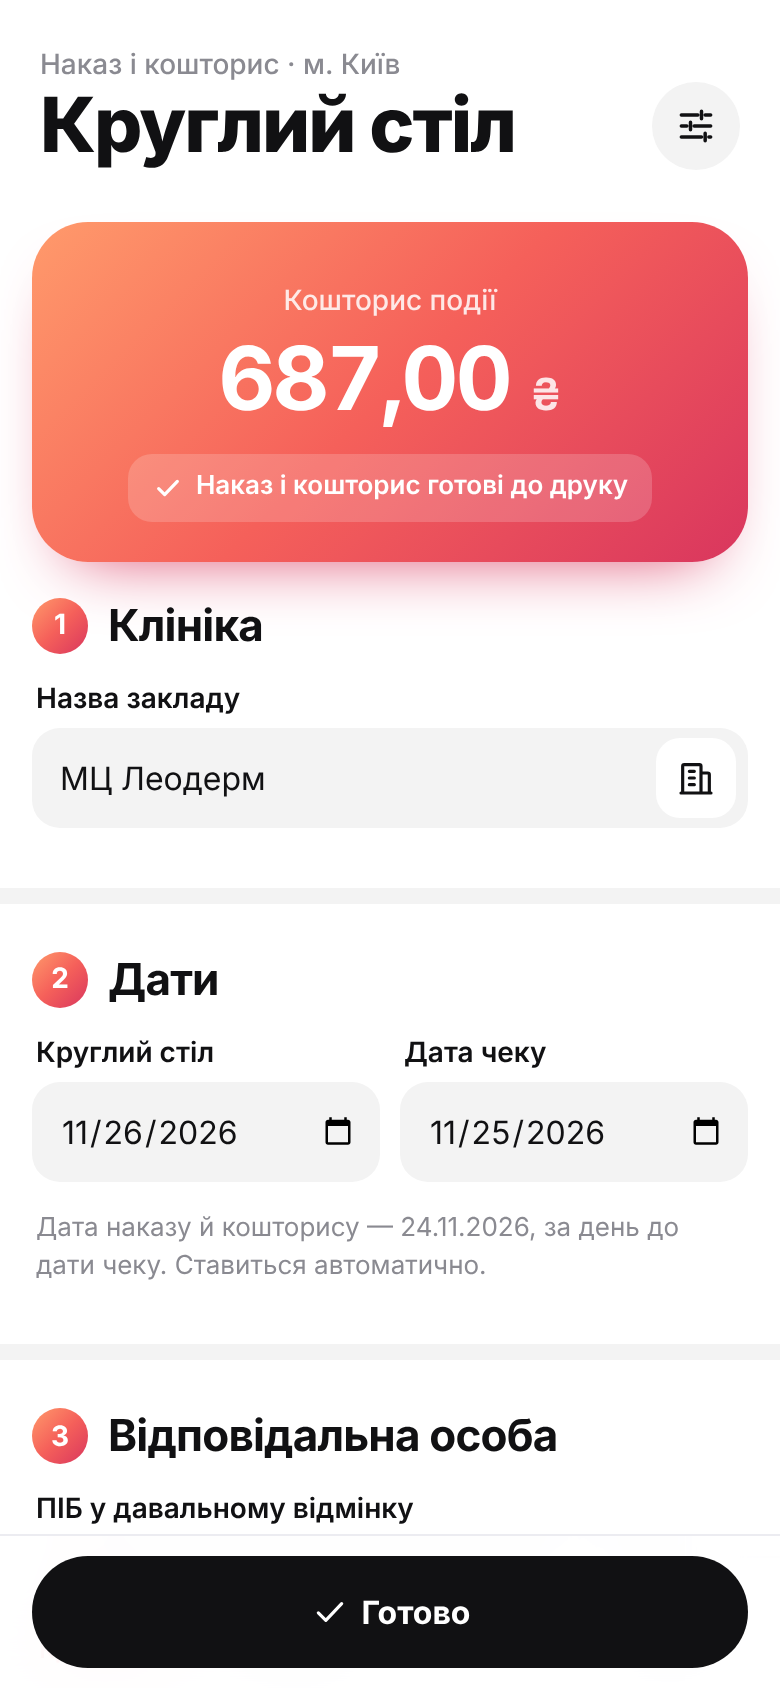
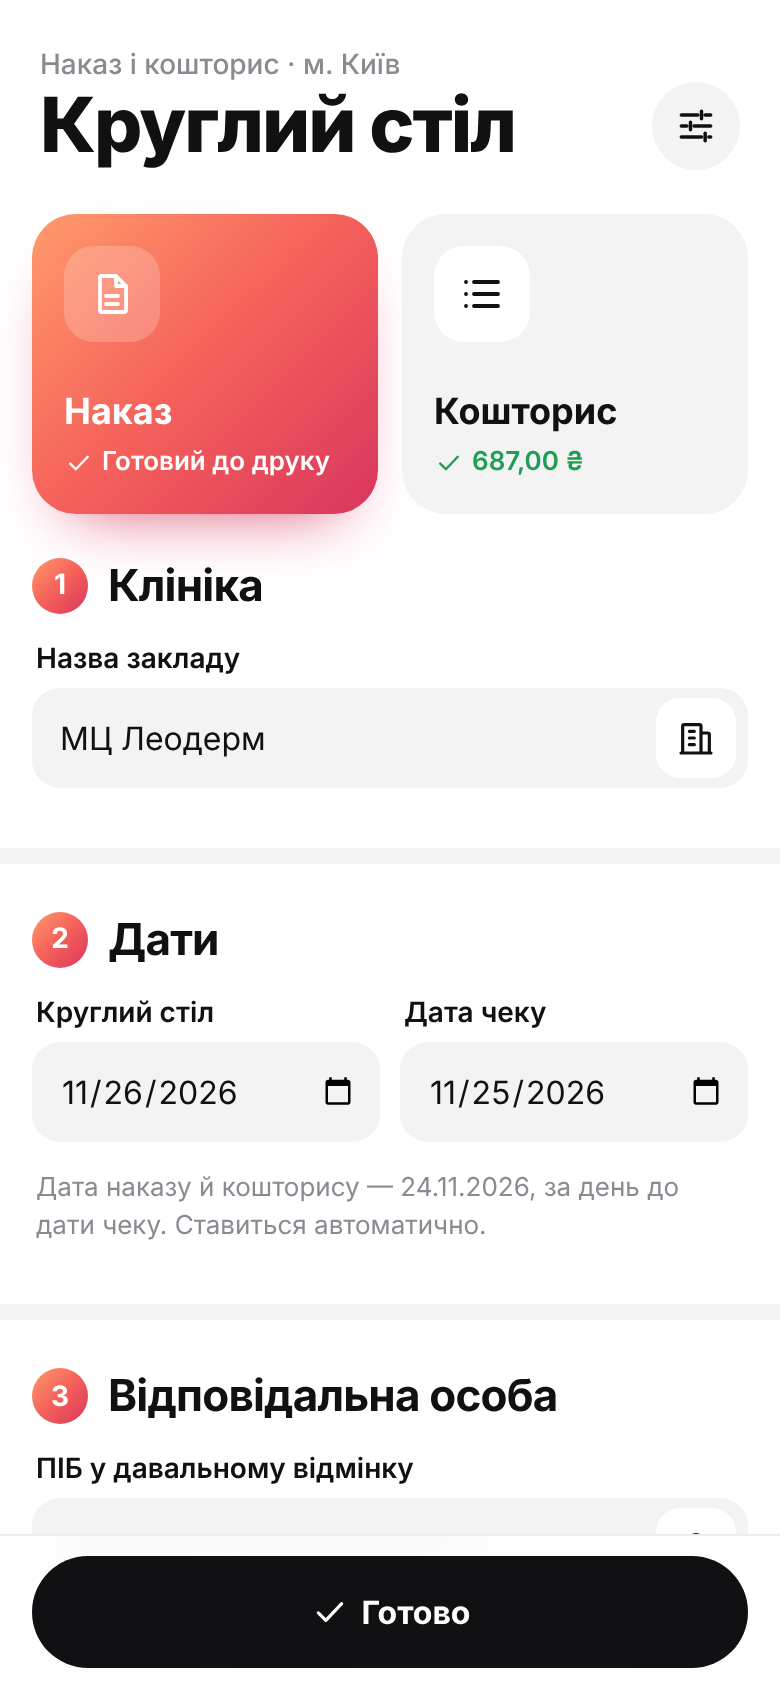
Round table: order and budget document cards instead of amount hero
Claude-Session: https://claude.ai/code/session_01MK9Aw3Yig429nqqad2jXvH

diff --git a/dist/app.js b/dist/app.js
@@ -40,7 +40,7 @@ const monthName=s=>{if(!s)return '';const d=new Date(s.slice(0,7)+'-15T12:00:00'
 /* ---------- Круглий стіл ---------- */
 function eventView(){const e=state.event;e.city=CITY;const step=(n,t)=>`<span class="step-n">${n}</span>${t}`;return {
  body:`<header class="large-title"><div><small>Наказ і кошторис · м. ${CITY}</small><h1>Круглий стіл</h1></div><button class="round" data-action="event-settings" aria-label="Налаштування події">${icon('sliders')}</button></header>
- <section class="hero"><span class="hero-label">Кошторис події</span><div class="hero-amount" id="budget-total"></div><div class="hero-status" id="preview-status"></div></section>
+ <section class="doc-pair"><button class="doc-card hero-doc" data-doc="order"><span class="doc-ic">${icon('doc')}</span><b>Наказ</b><small id="order-state"></small></button><button class="doc-card" data-doc="budget"><span class="doc-ic">${icon('list')}</span><b>Кошторис</b><small id="budget-state"></small></button></section>
  ${group(step(1,'Клініка'),`${pickField('Назва закладу','event.venue',e.venue,'clinics','event','placeholder="Виберіть або введіть клініку" maxlength="180"')}`)}
  ${group(step(2,'Дати'),`<div class="field-grid">${field('Круглий стіл','event.date',e.date,'date','required')}${field('Дата чеку','event.receiptDate',e.receiptDate||'','date','required')}</div><p class="hint" id="order-date"></p>`)}
  ${group(step(3,'Відповідальна особа'),`${pickField('ПІБ у давальному відмінку','event.person',e.person,'representatives','event','placeholder="Кузьмінській Уляні Іванівні" maxlength="180"')}`)}
@@ -191,7 +191,7 @@ function go(next){if(next===view)return render();const pushed=!!parentOf[next];v
 function back(){if(history.state?.pushed)history.back();else{view=parentOf[view]||'event';history.replaceState({view},'');render()}}
 window.addEventListener('popstate',e=>{if($('#preview-dialog').open)$('#preview-dialog').close();view=e.state?.view||'event';if(view==='travel')docType='travel';transition('back',render)});
 function updateDerived(){
- if(view==='event'){const total=$('#budget-total');if(total)total.innerHTML=money(costTotal(state.event.items))+' <small>₴</small>';state.event.items.forEach((r,i)=>{const el=document.querySelector(`[data-line-total="${i}"]`);if(el)el.textContent=money(r.qty*r.price)+' ₴'});const errs=eventErrors(true),st=$('#preview-status');if(st){st.className='hero-status '+(errs.length?'warn':'ok');st.innerHTML=errs.length?'Заповніть: '+esc(errs.join(', ')):icon('check')+'Наказ і кошторис готові до друку'}const od=$('#order-date'),o=eventDates(state.event).orderDate;if(od)od.textContent=o?`Дата наказу й кошторису — ${date(o)}, за день до дати чеку. Ставиться автоматично.`:'Дата наказу ставиться автоматично: за день до дати чеку.'}
+ if(view==='event'){const oe=eventErrors(false),be=eventErrors(true).filter(x=>!oe.includes(x)),os=$('#order-state'),bs=$('#budget-state'),mark=(el,errs,ok)=>{if(!el)return;el.closest('.doc-card').classList.toggle('ready',!errs.length);el.innerHTML=errs.length?'Бракує: '+esc(errs.join(', ')):icon('check')+ok};mark(os,oe,'Готовий до друку');mark(bs,oe.length?oe:be,money(costTotal(state.event.items))+' ₴');state.event.items.forEach((r,i)=>{const el=document.querySelector(`[data-line-total="${i}"]`);if(el)el.textContent=money(r.qty*r.price)+' ₴'});const errs=eventErrors(true),st=$('#preview-status');if(st){st.className='hero-status '+(errs.length?'warn':'ok');st.innerHTML=errs.length?'Заповніть: '+esc(errs.join(', ')):icon('check')+'Наказ і кошторис готові до друку'}const od=$('#order-date'),o=eventDates(state.event).orderDate;if(od)od.textContent=o?`Дата наказу й кошторису — ${date(o)}, за день до дати чеку. Ставиться автоматично.`:'Дата наказу ставиться автоматично: за день до дати чеку.'}
  if(view==='travel'){prepareMonthly();const t=state.travel,r=fuelMetrics(t),v=(x,u='')=>x===undefined||x===null||!Number.isFinite(x)?'—':num(x)+u;
   const kt=$('#km-total');if(kt)kt.innerHTML=`${r.error||r.total===undefined?'—':num(r.total)} <small>км</small>`;
   const st=$('#fuel-status');if(st){const over=!r.error&&r.actualRate>Number(t.rate)+1e-9;st.className='hero-status '+(r.error||over?'warn':'ok');st.innerHTML=r.error?esc(!Number(t.refill)&&Number(t.startFuel)<=Number(t.endTarget)?'Введіть, скільки пального залили':r.error):over?'Фактична витрата більша за норму. Приберіть від’ємну поправку в «Початкових даних».':`${icon('check')}Фактично ${fraction(r.actualRate,Number(t.liters))} · норма ${fraction(Number(t.rate),r.normFuel)}`}

diff --git a/dist/style.css b/dist/style.css
@@ -145,6 +145,10 @@ body.has-bar .actionbar{grid-template-columns:1fr}.button.pill{height:56px;borde
 .tank-row input[type=range]{flex:1;border:0;padding:0;box-shadow:none;outline:0;min-width:0;-webkit-appearance:none;appearance:none;height:8px;border-radius:4px;background:linear-gradient(90deg,var(--accent) var(--p,50%),var(--soft) var(--p,50%));margin:0;cursor:pointer}
 .tank-row input[type=range]::-webkit-slider-thumb{-webkit-appearance:none;width:28px;height:28px;border-radius:50%;background:#fff;box-shadow:0 2px 8px #0004;border:0}.tank-row input[type=range]::-moz-range-thumb{width:28px;height:28px;border-radius:50%;background:#fff;box-shadow:0 2px 8px #0004;border:0}
 .hint.center{text-align:center}.fuel-input+.quick{margin-top:18px}
+.doc-pair{display:grid;grid-template-columns:1fr 1fr;gap:12px;margin:4px 0 22px}.doc-card{display:flex;flex-direction:column;align-items:flex-start;gap:6px;text-align:left;padding:16px;border-radius:22px;background:var(--tile);min-height:150px;transition:transform .15s}.doc-card:active{transform:scale(.97)}
+.doc-card .doc-ic{width:48px;height:48px;border-radius:15px;display:grid;place-items:center;background:var(--bg);margin-bottom:auto}.doc-card .doc-ic .ic{width:24px;height:24px}.doc-card b{font-size:18px;font-weight:700;margin-top:14px}.doc-card small{font-size:13px;line-height:1.35;color:var(--muted);display:flex;gap:4px;align-items:flex-start}.doc-card small .ic{width:15px;height:15px;flex-shrink:0;margin-top:1px}
+.doc-card.hero-doc{background:var(--hero);color:#fff;box-shadow:0 16px 34px -20px #d9365e}.doc-card.hero-doc .doc-ic{background:#ffffff33}.doc-card.hero-doc .ic{stroke:#fff}.doc-card.hero-doc small{color:#ffffffd9}
+.doc-card.ready small{color:var(--ok);font-weight:600}.doc-card.hero-doc.ready small{color:#fff}
 .step-n{display:inline-grid;place-items:center;width:28px;height:28px;border-radius:50%;background:var(--hero);color:#fff;font-size:14px;font-weight:700;margin-right:10px;vertical-align:3px;letter-spacing:0}
 .card-foot.center{display:flex;justify-content:center;margin:8px 0 0}.link.muted{color:var(--muted)}
 .tile.wide{flex-direction:row;align-items:center;min-height:0;width:100%;gap:14px;margin:0 0 22px}.tile.wide .tile-text{flex:1}.tile.wide .chev{color:var(--muted)}
